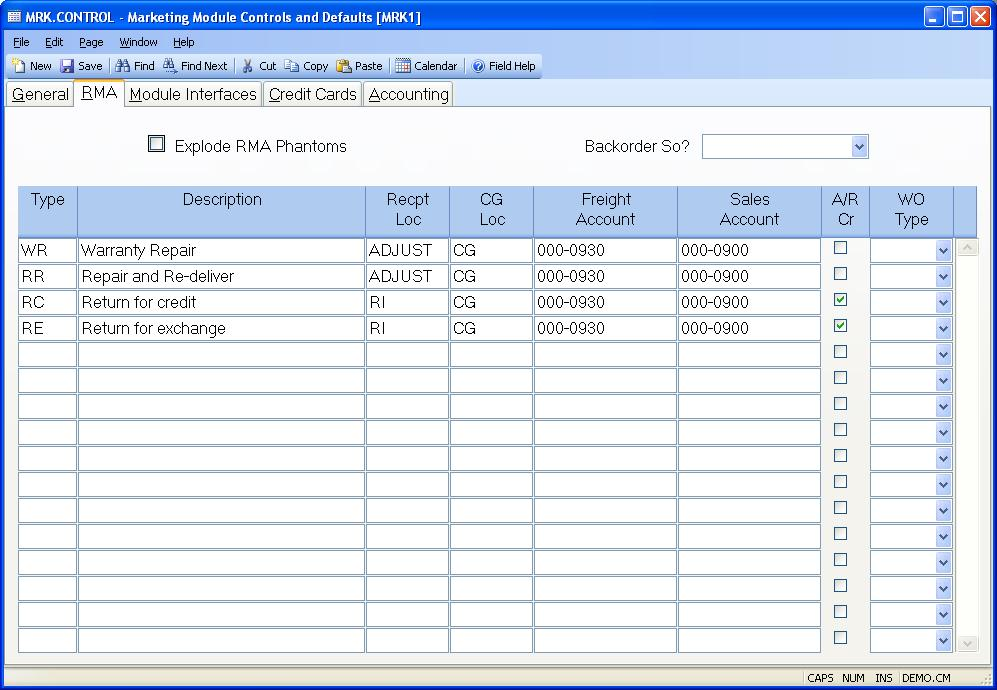
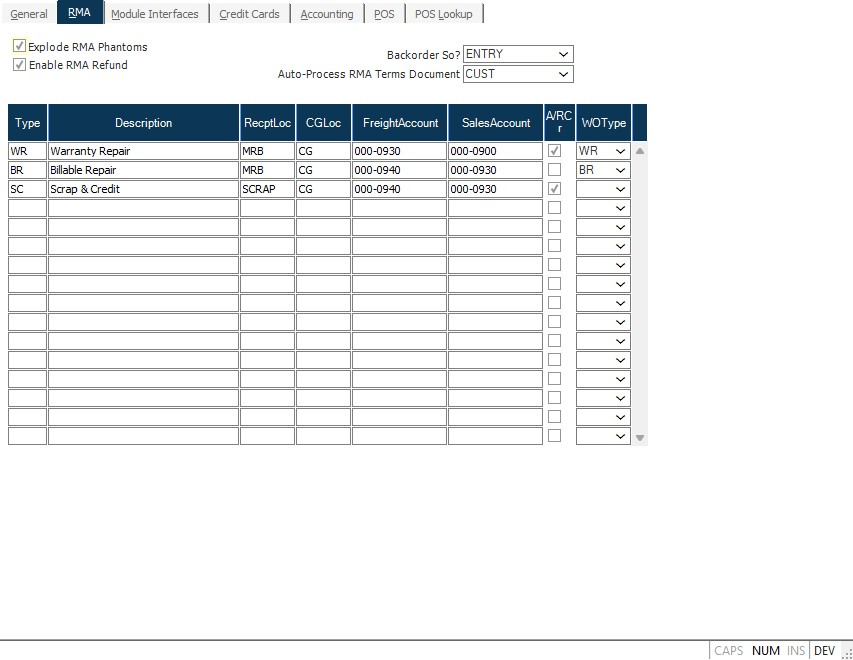
POS RMA

diff --git a/site/rover/release-notes/web/2-5-0/README.md b/site/rover/release-notes/web/2-5-0/README.md
@@ -10,7 +10,9 @@ These are the release notes for version 2.5.0 (TBD) of the Rover Web application
 
 - **Rover Web**
   - **Point of Sale**
-  - Add ability to require signature when finalizing orders. Requires update to [MRK.CONTROL](../../../../rover/AP-OVERVIEW/AP-ENTRY/AP-E/AP-E-1/CURRENCY-CONTROL/SO-E/MRK-CONTROL/MRK-CONTROL-6/README.md#pos-require-ship-signature).
+    - Add ability to require signature when finalizing orders. Requires update to [MRK.CONTROL](../../../../rover/AP-OVERVIEW/AP-ENTRY/AP-E/AP-E-1/CURRENCY-CONTROL/SO-E/MRK-CONTROL/MRK-CONTROL-6/README.md#pos-require-ship-signature).
+    - Added support for processing of RMAs from the Invoices tab. This must be enabled via MRK.CONTROL in the "Enable RMA Refund". Requires update to [MRK.CONTROL](../../../../rover/AP-OVERVIEW/AP-ENTRY/AP-E/AP-E-1/CURRENCY-CONTROL/SO-E/MRK-CONTROL/MRK-CONTROL-2/README.md#enable-rma-refund). ![POS RMA](./pos-rma.gif)
+
   - **Tickets and Time**
     - Adding priority, status, and contacts to ticket details.
   - **General**

diff --git a/site/rover/AP-OVERVIEW/AP-ENTRY/AP-E/AP-E-1/CURRENCY-CONTROL/SO-E/MRK-CONTROL/MRK-CONTROL-2/README.md b/site/rover/AP-OVERVIEW/AP-ENTRY/AP-E/AP-E-1/CURRENCY-CONTROL/SO-E/MRK-CONTROL/MRK-CONTROL-2/README.md
@@ -41,6 +41,14 @@ credit memos or invoices in accounts receivable.
   
 **WO Type** Enter the repair type code to be assigned to work orders that are
 created for the associated RMA type code. Repair codes are setup in  
+
+### Enable RMA Refund 
+
+Enables the ability to process RMAs in Rover Web Point of Sale.
+
+### Auto-Process RMA Terms Document
+
+Selects what document to reference when determining if an RMA Receipt created via Rover Web Point of Sale can be automatically confirmed and posted to an AR Credit Memo. This is determined using the Auto-Process RMA setting in TERMS.E for the terms code associated with the document selected (AR for the item being RMA'ed or Customer) 
   
   
 <badge text= "Version 8.10.57" vertical="middle" />
